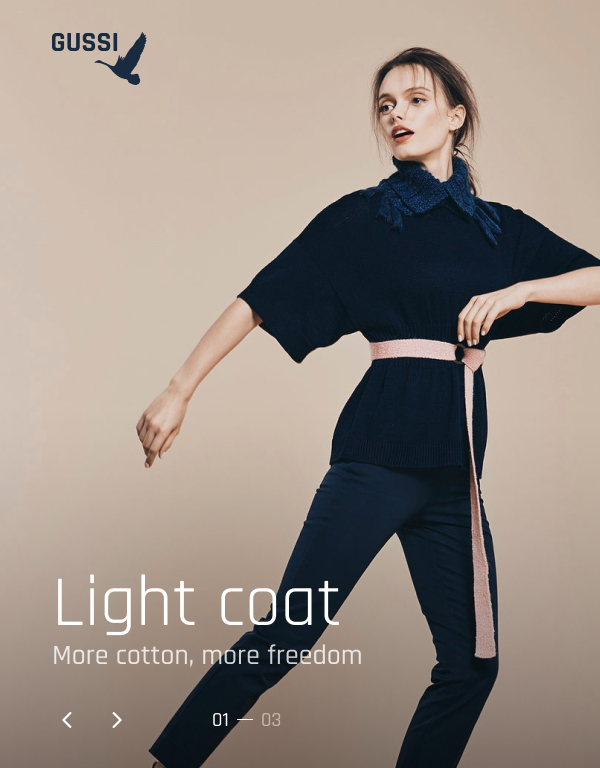
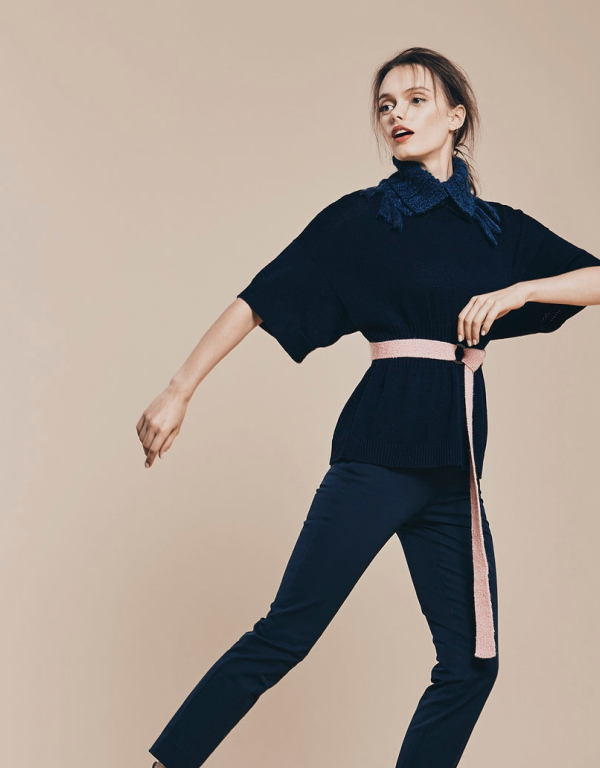
add: make promo-block for desctop

Changed region(s): [[0.0, 0.7188, 0.75, 1.0], [0.75, 0.7188, 1.0, 1.0], [0.09, 0.0312, 0.24, 0.125]]

diff --git a/index.html b/index.html
@@ -9,33 +9,33 @@
     <link href="style.css" rel="stylesheet">
 </head>
 <body>
-    <main class="page-main">
-        <a class="page-header__logo">
-            <svg></svg>
+    <header class="page-header container-center">
+        <a class="page-header__logo logo" href="#">
+            <img class="logo__pic" src="img/desctop-img/logo.svg" alt="gussi-logo">
         </a>
+    </header>
+    <main class="page-main">        
         <h1 class="visually-hidden">New Gussi collection</h1>
         <section class="promo-slider promo">
-
-            <div class="promo__slide1">
-                <img class="promo__image3" src="" alt="photo of jacket" width="" height="">
-                <h2 class="promo__name-product1">Light coat</h2>            
-                <p class="promo__name-slogan">More cotton, more freedom</p>
-                <p class="promo__number-slide">01&ndash;03</p>
+            <div class="promo__slide1 slide1 container-center"> 
+                <div class="">
+                    <h2 class="slide1__name">Light coat</h2>            
+                    <p class="slide1__slogan">More cotton, more freedom</p>
+                    <p class="slide1__number">01&nbsp;&ndash;&nbsp;03</p>  
+                </div>                              
             </div>
-            <div class="promo__slide2">
-                <img class="promo__image3" src="" alt="photo of jacket" width="" height="">
-                <h2 class="promo__name-product2">Sandy longsleeve</h2>
-                <p class="promo__name-slogan">More cotton, more freedom</p>
-                <p class="promo__number-slide">02&ndash;03</p>
+            <div class="promo__slide2 slide2">                
+                <h2 class="slide2__name-product2">Sandy longsleeve</h2>
+                <p class="slide2__name-slogan">More cotton, more freedom</p>
+                <p class="slide2__number">02&ndash;03</p>                
             </div>            
-            <div class="promo__slide3">
-                <img class="promo__image3" src="" alt="foto of jacket" width="" height="">
-                <h2 class="promo__name-product3">Lime jhacket</h2>
-                <p class="promo__name-slogan">More cotton, more freedom</p>
-                <p class="promo__number-slide">03&ndash;03</p>
+            <div class="promo__slide3 slide3">                
+                <h2 class="slide3__name-product3">Lime jacket</h2>
+                <p class="slide3__name-slogan">More cotton, more freedom</p>
+                <p class="slide3__number">03&ndash;03</p>
             </div>            
-            <button class="reviews__toggle reviews__toggle--left" type="button" aria-label="left side button"></button>
-            <button class="reviews__toggle reviews__toggle--right" type="button" aria-label="right side button"></button>
+            <button class="promo-slider__toggle promo-slider__toggle--left" type="button" aria-label="left side button"></button>
+            <button class="promo-slider__toggle promo-slider__toggle--right" type="button" aria-label="right side button"></button>
         </section>
         <section class="order">
             <!-- Проверить в Аркане, Нердс или Лувре. По-моему такие штуки верстаются лейблами
@@ -129,7 +129,7 @@
                             <label class="gender__label-radio" for="variable">Male</label>
                         </li>
                         <li class="gender__item">
-                            <input class="visually-hidden gender__input-radio" type="radio" name="sex" value="female" id="woman">
+                            <input class="gender__input-radio" type="radio" name="sex" value="female" id="woman">
                             <label class="gender__label-radio" for="fixed">Female</label>
                         </li>                      
                     </ul>

diff --git a/style.css b/style.css
@@ -43,4 +43,80 @@ html {
     margin: 0 auto;
     padding: 0 50px;
   }
-  
+
+.page-header__logo {
+    position: absolute;
+    z-index: 5;
+}
+
+.logo__pic {
+    padding-top: 32px;
+}
+
+.promo__slide1 {    
+    background-image: url(img/desctop-img/slide1.jpg);
+    background-repeat: no-repeat;
+    background-position: 0 0;
+    min-height: 768px;
+  }
+
+   .promo__slide2,
+  .promo__slide3 {
+    display: none;
+  }
+
+
+.slide1__name,
+.slide1__slogan,
+.slide1__number {
+    color: #ffffff;
+}
+
+.slide1__name {
+    padding-top: 572px;
+    font-size: 72px;
+    line-height: 72px;
+    font-weight: 400;
+    width: 295px;
+    margin-bottom: -30px;     
+}
+
+.slide1__slogan {
+    font-weight: 500;
+    font-size: 28px;
+    line-height: 32px;
+    margin-bottom: 32px;
+}
+
+  .slide1__number {  
+      font-size: 20px;
+      line-height: 32px; 
+      font-weight: 500;        
+      bottom: 12px;  
+      margin-left: 160px;   
+  }
+
+
+.promo-slider__toggle {
+    position: absolute;
+    z-index: 7;
+    bottom: 4px;
+    width: 17px;
+    height: 17px;   
+    border: 3px solid #ffffff;
+    background-color: transparent;
+    border-right-color: transparent;
+    border-top-color: transparent;   
+    
+}
+
+.promo-slider__toggle--left {
+    left: 62px;
+    transform: rotate(45deg);
+}
+
+.promo-slider__toggle--right {
+    left: 113px;
+    transform: rotate(225deg);
+    
+}
